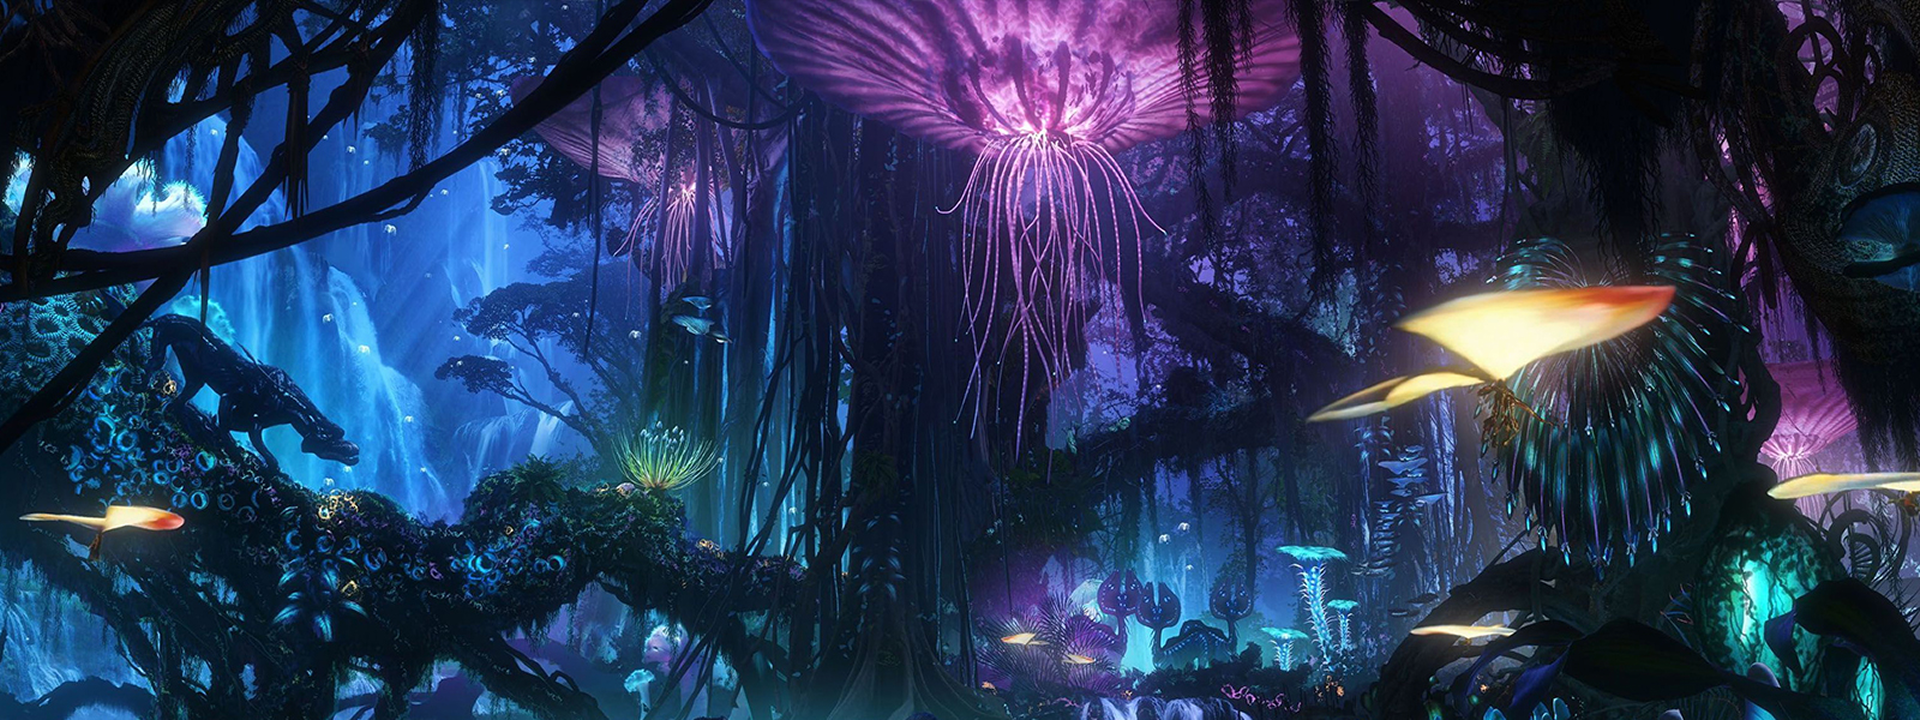
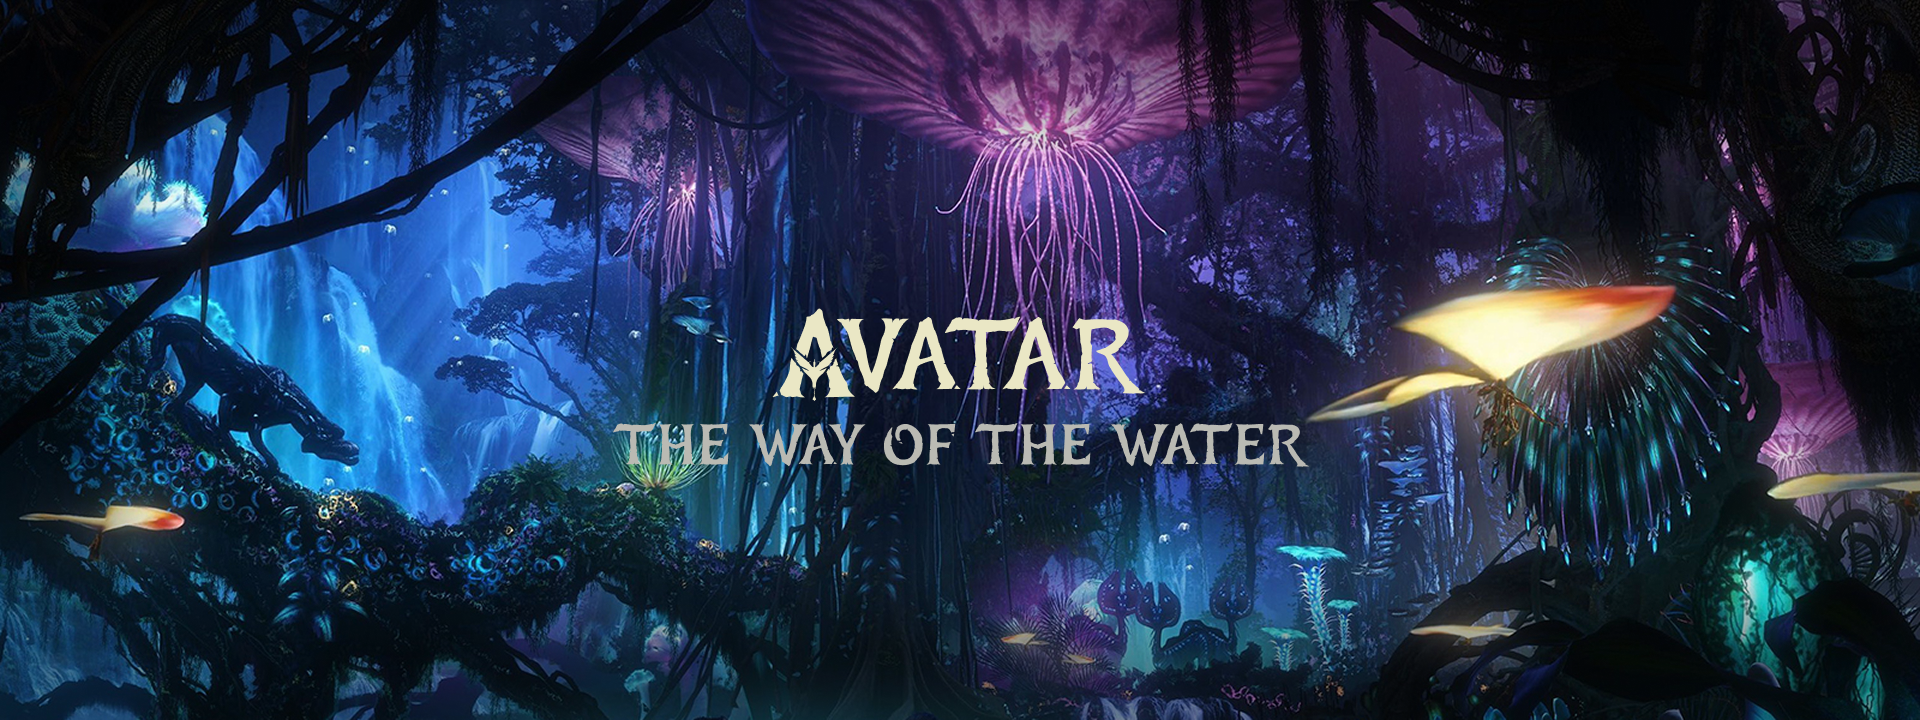
update_02

diff --git a/index.html b/index.html
@@ -12,17 +12,20 @@
 
 <body>
     <header>
-        <p class="avatar-titre">Avatar</p>
-        <p class="h2">The way of the water</p>
-
         <img src="./assets/img/avatar-banner_1.png" id="img-banner" class="img-fluid"
             alt="Image de la forêt dans le film Avatar">
     </header>
 
     <div class="container">
-        <div class="row">
-            <div class="col">
-
+        <div class="row mt-4">
+            <div class="col-5 bg-primary fs-5">
+                «Avatar : The way of the water » reprend l’histoire de Jake et Neytiri, mais cette fois ils ont
+                une famille. À cause des humains, ils doivent quitter leur foyer et apprendre à vivre avec un clan qui
+                vit au bord de l’océan. Le film parle surtout de famille, de survie et de la façon dont les Na’vi
+                essaient de protéger leur monde.
+            </div>
+            <div class="col-6 offset-1 bg-warning">
+                hey
             </div>
         </div>
     </div>
